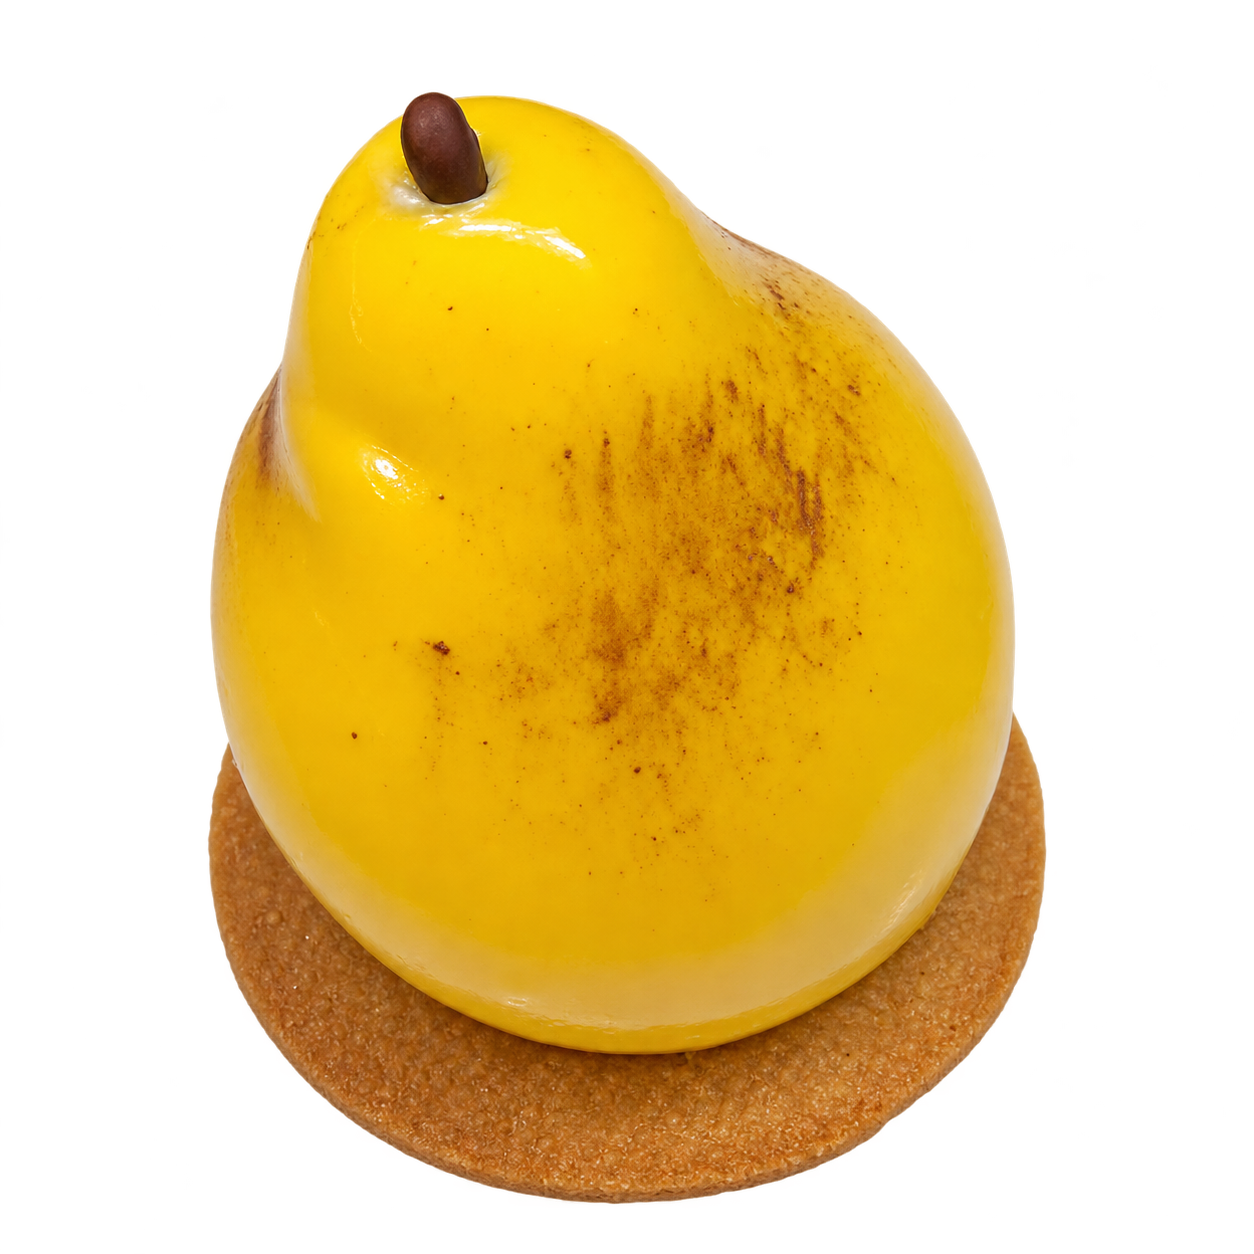
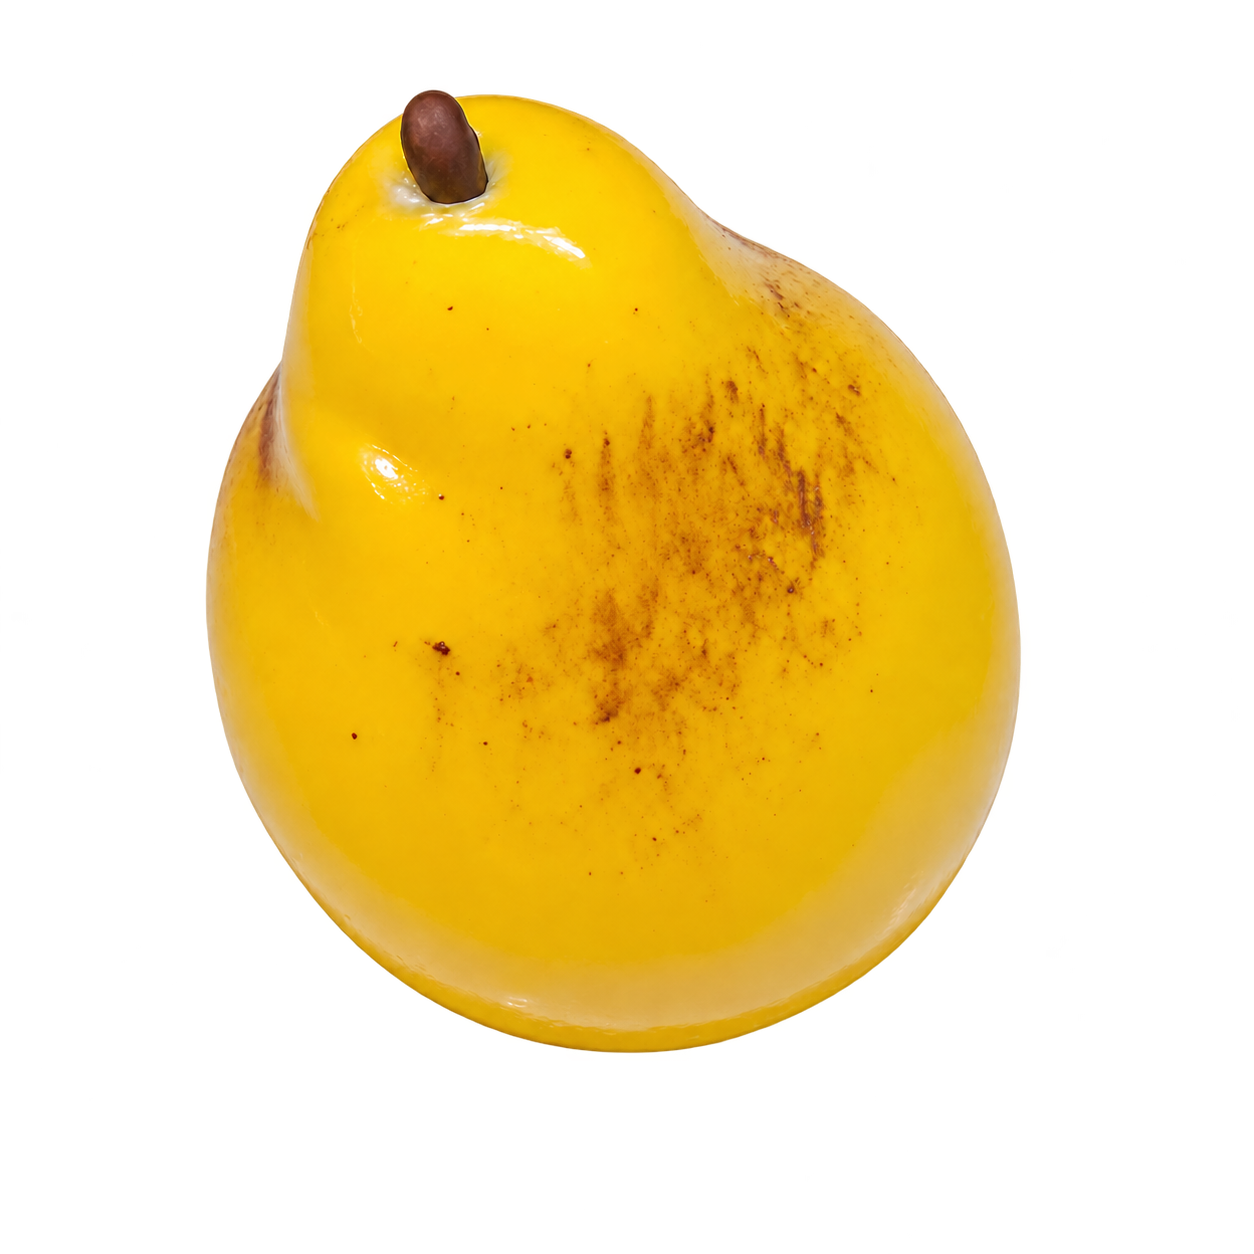
Section collection trompe-l'oeil

diff --git a/trompe-l-oeil.html b/trompe-l-oeil.html
@@ -53,13 +53,18 @@
     </div>
   </div>
 </section>
-<section class="sec sec-tint">
-  <div class="wrap">
-    <div class="sec-head"><h2>La collection</h2><p>Elle change avec les saisons et les envies du chef. Voici quelques créations passées en vitrine. Touchez une photo pour l'agrandir.</p></div>
-    <div class="gallery"><button class="shot" type="button" aria-label="Agrandir : Trompe-l&#x27;œil fraise"><img src="images/trompe-fraise.jpg" alt="Trompe-l&#x27;œil fraise" loading="lazy" decoding="async"></button><button class="shot" type="button" aria-label="Agrandir : Trompe-l&#x27;œil citron et mangue"><img src="images/trompe-citron-mangue.jpg" alt="Trompe-l&#x27;œil citron et mangue" loading="lazy" decoding="async"></button><button class="shot" type="button" aria-label="Agrandir : Trompe-l&#x27;œil pêche et noisette"><img src="images/trompe-peche-noisette.jpg" alt="Trompe-l&#x27;œil pêche et noisette" loading="lazy" decoding="async"></button><button class="shot" type="button" aria-label="Agrandir : Trompe-l&#x27;œil cacahuète, fève de cacao et framboise"><img src="images/trompe-cacahuete-framboise.jpg" alt="Trompe-l&#x27;œil cacahuète, fève de cacao et framboise" loading="lazy" decoding="async"></button><button class="shot" type="button" aria-label="Agrandir : Trompe-l&#x27;œil pomme"><img src="images/trompe-pomme.jpg" alt="Trompe-l&#x27;œil pomme" loading="lazy" decoding="async"></button><button class="shot" type="button" aria-label="Agrandir : Trompe-l&#x27;œil fruits brillants"><img src="images/trompe-fruits-brillants.jpg" alt="Trompe-l&#x27;œil fruits brillants" loading="lazy" decoding="async"></button><button class="shot" type="button" aria-label="Agrandir : Trompe-l&#x27;œil kiwi"><img src="images/trompe-kiwi.jpg" alt="Trompe-l&#x27;œil kiwi" loading="lazy" decoding="async"></button><button class="shot" type="button" aria-label="Agrandir : Trompe-l&#x27;œil prune et mangue"><img src="images/trompe-prunes.jpg" alt="Trompe-l&#x27;œil prune et mangue" loading="lazy" decoding="async"></button><button class="shot" type="button" aria-label="Agrandir : Trompe-l&#x27;œil orange"><img src="images/trompe-orange-mangue.jpg" alt="Trompe-l&#x27;œil orange" loading="lazy" decoding="async"></button><button class="shot" type="button" aria-label="Agrandir : Trompe-l&#x27;œil fraise sur assiette"><img src="images/trompe-fraise-assiette.jpg" alt="Trompe-l&#x27;œil fraise sur assiette" loading="lazy" decoding="async"></button><button class="shot" type="button" aria-label="Agrandir : Assortiment de trompe-l&#x27;œil"><img src="images/trompe-assortiment.jpg" alt="Assortiment de trompe-l&#x27;œil" loading="lazy" decoding="async"></button><button class="shot" type="button" aria-label="Agrandir : Vitrine de trompe-l&#x27;œil"><img src="images/vitrine-longue.jpg" alt="Vitrine de trompe-l&#x27;œil" loading="lazy" decoding="async"></button></div>
+<section class="band-sec" id="collection" aria-labelledby="band-title">
+  <div class="wrap band-head">
+    <p class="band-eyebrow">La collection</p>
+    <h2 id="band-title">Ça ressemble à un fruit.<br>C'est un gâteau.</h2>
+    <p class="band-lead">Neuf créations façonnées à la main, qui trompent l'œil avant de régaler le palais.</p>
   </div>
+  <div class="band">
+    <ul class="band-track"><li><img src="images/collection/citron.webp" alt="Trompe-l&#x27;œil citron" width="840" height="840" loading="lazy" decoding="async"><span>Citron</span></li><li><img src="images/collection/poire-verte.webp" alt="Trompe-l&#x27;œil poire" width="840" height="840" loading="lazy" decoding="async"><span>Poire</span></li><li><img src="images/collection/noix.webp" alt="Trompe-l&#x27;œil noix" width="840" height="840" loading="lazy" decoding="async"><span>Noix</span></li><li><img src="images/collection/fruit-rouge.webp" alt="Trompe-l&#x27;œil fruit rouge" width="840" height="840" loading="lazy" decoding="async"><span>Fruit rouge</span></li><li><img src="images/collection/peche.webp" alt="Trompe-l&#x27;œil pêche" width="840" height="840" loading="lazy" decoding="async"><span>Pêche</span></li><li><img src="images/collection/cacahuete.webp" alt="Trompe-l&#x27;œil cacahuète" width="840" height="840" loading="lazy" decoding="async"><span>Cacahuète</span></li><li><img src="images/collection/vanille.webp" alt="Trompe-l&#x27;œil vanille" width="840" height="840" loading="lazy" decoding="async"><span>Vanille</span></li><li><img src="images/collection/abricot.webp" alt="Trompe-l&#x27;œil abricot" width="840" height="840" loading="lazy" decoding="async"><span>Abricot</span></li><li><img src="images/collection/fraise.webp" alt="Trompe-l&#x27;œil fraise" width="840" height="840" loading="lazy" decoding="async"><span>Fraise</span></li><li aria-hidden="true"><img src="images/collection/citron.webp" alt="" width="840" height="840" loading="lazy" decoding="async"><span>Citron</span></li><li aria-hidden="true"><img src="images/collection/poire-verte.webp" alt="" width="840" height="840" loading="lazy" decoding="async"><span>Poire</span></li><li aria-hidden="true"><img src="images/collection/noix.webp" alt="" width="840" height="840" loading="lazy" decoding="async"><span>Noix</span></li><li aria-hidden="true"><img src="images/collection/fruit-rouge.webp" alt="" width="840" height="840" loading="lazy" decoding="async"><span>Fruit rouge</span></li><li aria-hidden="true"><img src="images/collection/peche.webp" alt="" width="840" height="840" loading="lazy" decoding="async"><span>Pêche</span></li><li aria-hidden="true"><img src="images/collection/cacahuete.webp" alt="" width="840" height="840" loading="lazy" decoding="async"><span>Cacahuète</span></li><li aria-hidden="true"><img src="images/collection/vanille.webp" alt="" width="840" height="840" loading="lazy" decoding="async"><span>Vanille</span></li><li aria-hidden="true"><img src="images/collection/abricot.webp" alt="" width="840" height="840" loading="lazy" decoding="async"><span>Abricot</span></li><li aria-hidden="true"><img src="images/collection/fraise.webp" alt="" width="840" height="840" loading="lazy" decoding="async"><span>Fraise</span></li></ul>
+  </div>
+  <div class="wrap band-foot"><a class="band-more" href="#profiter">Découvrir en boutique <span aria-hidden="true">→</span></a></div>
 </section>
-<section class="sec">
+<section class="sec" id="profiter">
   <div class="wrap">
     <div class="sec-head"><h2>Comment en profiter</h2></div>
     <div class="cols3">
@@ -67,6 +72,12 @@
       <div><h3>En coffret à offrir</h3><p>Un assortiment de plusieurs fruits, à commander à l'avance. Idéal pour un dîner, un remerciement ou un cadeau qui fait parler.</p></div>
       <div><h3>En format XL</h3><p>Le trompe-l'œil à partager, en pièce centrale d'un anniversaire ou d'une réception. Sur commande et sur devis.</p></div>
     </div>
+  </div>
+</section>
+<section class="sec sec-tint">
+  <div class="wrap">
+    <div class="sec-head"><h2>En vitrine</h2><p>La sélection change avec les saisons et les envies du chef. Voici quelques créations passées en vitrine. Touchez une photo pour l'agrandir.</p></div>
+    <div class="gallery"><button class="shot" type="button" aria-label="Agrandir : Trompe-l&#x27;œil fraise"><img src="images/trompe-fraise.jpg" alt="Trompe-l&#x27;œil fraise" loading="lazy" decoding="async"></button><button class="shot" type="button" aria-label="Agrandir : Trompe-l&#x27;œil citron et mangue"><img src="images/trompe-citron-mangue.jpg" alt="Trompe-l&#x27;œil citron et mangue" loading="lazy" decoding="async"></button><button class="shot" type="button" aria-label="Agrandir : Trompe-l&#x27;œil pêche et noisette"><img src="images/trompe-peche-noisette.jpg" alt="Trompe-l&#x27;œil pêche et noisette" loading="lazy" decoding="async"></button><button class="shot" type="button" aria-label="Agrandir : Trompe-l&#x27;œil cacahuète, fève de cacao et framboise"><img src="images/trompe-cacahuete-framboise.jpg" alt="Trompe-l&#x27;œil cacahuète, fève de cacao et framboise" loading="lazy" decoding="async"></button><button class="shot" type="button" aria-label="Agrandir : Trompe-l&#x27;œil pomme"><img src="images/trompe-pomme.jpg" alt="Trompe-l&#x27;œil pomme" loading="lazy" decoding="async"></button><button class="shot" type="button" aria-label="Agrandir : Trompe-l&#x27;œil fruits brillants"><img src="images/trompe-fruits-brillants.jpg" alt="Trompe-l&#x27;œil fruits brillants" loading="lazy" decoding="async"></button><button class="shot" type="button" aria-label="Agrandir : Trompe-l&#x27;œil kiwi"><img src="images/trompe-kiwi.jpg" alt="Trompe-l&#x27;œil kiwi" loading="lazy" decoding="async"></button><button class="shot" type="button" aria-label="Agrandir : Trompe-l&#x27;œil prune et mangue"><img src="images/trompe-prunes.jpg" alt="Trompe-l&#x27;œil prune et mangue" loading="lazy" decoding="async"></button><button class="shot" type="button" aria-label="Agrandir : Trompe-l&#x27;œil orange"><img src="images/trompe-orange-mangue.jpg" alt="Trompe-l&#x27;œil orange" loading="lazy" decoding="async"></button><button class="shot" type="button" aria-label="Agrandir : Trompe-l&#x27;œil fraise sur assiette"><img src="images/trompe-fraise-assiette.jpg" alt="Trompe-l&#x27;œil fraise sur assiette" loading="lazy" decoding="async"></button><button class="shot" type="button" aria-label="Agrandir : Assortiment de trompe-l&#x27;œil"><img src="images/trompe-assortiment.jpg" alt="Assortiment de trompe-l&#x27;œil" loading="lazy" decoding="async"></button><button class="shot" type="button" aria-label="Agrandir : Vitrine de trompe-l&#x27;œil"><img src="images/vitrine-longue.jpg" alt="Vitrine de trompe-l&#x27;œil" loading="lazy" decoding="async"></button></div>
   </div>
 </section>
 <section class="cta">

diff --git a/assets/style.css b/assets/style.css
@@ -423,3 +423,27 @@ blockquote{margin:2.2rem 0;padding:0 0 0 1.4rem;border-left:2px solid var(--gold
   .reel-head{grid-template-columns:1fr;gap:.7rem}
   .reel-track .shot{width:46vw}
 }
+
+/* Collection trompe-l'œil : bandeau défilant infini */
+#profiter{scroll-margin-top:70px}
+.band-sec{background:var(--sand);padding-block:clamp(3.5rem,8vw,6.5rem);overflow:hidden;text-align:center}
+.band-eyebrow{font-size:.78rem;font-weight:500;letter-spacing:.34em;text-transform:uppercase;color:#8A6B17;margin:0 auto 1.4rem;padding-left:.34em}
+.band-sec h2{font-size:clamp(2rem,4.6vw,3.6rem);margin-bottom:.45em;text-wrap:balance}
+.band-lead{color:#6B564A;font-size:1.1rem;max-width:46ch;margin:0 auto}
+.band{--h:clamp(96px,13vw,168px);margin-top:clamp(2.2rem,5vw,3.6rem);background:var(--cream);border-block:1px solid rgba(212,175,55,.6);padding-block:clamp(1.3rem,2.6vw,2.2rem);overflow:hidden}
+.band-track{list-style:none;margin:0;padding:0;display:flex;width:max-content;animation:bandRun 75s linear infinite;will-change:transform}
+.band-track li{display:flex;align-items:center;flex:none;gap:clamp(1.4rem,3vw,2.8rem);padding-right:clamp(1.4rem,3vw,2.8rem)}
+.band-track img{height:var(--h);width:var(--h);object-fit:contain;filter:drop-shadow(0 12px 14px rgba(43,24,16,.16));user-select:none;-webkit-user-drag:none}
+.band-track li:nth-child(odd) img{transform:rotate(-5deg)}
+.band-track li:nth-child(even) img{transform:rotate(4deg)}
+.band-track span{font-family:var(--display);font-style:italic;font-weight:400;font-size:clamp(1.9rem,4.4vw,3.4rem);line-height:1;white-space:nowrap;color:#B8922A}
+@keyframes bandRun{to{transform:translateX(-50%)}}
+.band-foot{margin-top:clamp(1.8rem,4vw,2.6rem)}
+.band-more{display:inline-block;color:var(--terra-deep);font-weight:500;text-decoration:underline;text-decoration-color:var(--gold);text-decoration-thickness:2px;text-underline-offset:6px}
+.band-more span{display:inline-block;transition:transform .25s}
+.band-more:hover span{transform:translateX(5px)}
+@media (prefers-reduced-motion:reduce){
+  .band{overflow-x:auto}
+  .band-track{animation:none}
+  .band-track li[aria-hidden]{display:none}
+}

diff --git a/assets/site.js b/assets/site.js
@@ -178,3 +178,23 @@ if (reelRows.length) {
     slide();
   }
 }
+
+// Trompe-l'œil : le bandeau défilant ralentit en douceur au survol
+const bandEl = document.querySelector('.band');
+if (bandEl) {
+  const run = bandEl.querySelector('.band-track').getAnimations?.()[0];
+  if (run) {
+    let rate = 1;
+    let goal = 1;
+    let raf = 0;
+    const tick = () => {
+      rate += (goal - rate) * 0.08;
+      if (Math.abs(goal - rate) < 0.01) rate = goal;
+      run.playbackRate = rate;
+      raf = rate === goal ? 0 : requestAnimationFrame(tick);
+    };
+    const aim = (v) => { goal = v; if (!raf) raf = requestAnimationFrame(tick); };
+    bandEl.addEventListener('pointerenter', (e) => { if (e.pointerType === 'mouse') aim(0.25); });
+    bandEl.addEventListener('pointerleave', () => aim(1));
+  }
+}

diff --git a/build.py b/build.py
@@ -301,6 +301,35 @@ pages["index.html"] = layout(
 )
 
 # ------------------------------------------------------------- TROMPE-L'OEIL
+# Le bandeau défilant : fichier (images/collection/<fichier>.webp) et mot affiché en or.
+COLLECTION = [
+    ("citron", "Citron"), ("poire-verte", "Poire"), ("noix", "Noix"),
+    ("fruit-rouge", "Fruit rouge"), ("peche", "Pêche"), ("cacahuete", "Cacahuète"),
+    ("vanille", "Vanille"), ("abricot", "Abricot"), ("fraise", "Fraise"),
+]
+
+
+def collection(root):
+    def serie(hidden):
+        h = ' aria-hidden="true"' if hidden else ""
+        out = ""
+        for slug, mot in COLLECTION:
+            alt = "" if hidden else f"Trompe-l'œil {mot.lower()}"
+            out += f'<li{h}><img src="{root}images/collection/{slug}.webp" alt="{e(alt)}" width="840" height="840" loading="lazy" decoding="async"><span>{e(mot)}</span></li>'
+        return out
+    return f"""<section class="band-sec" id="collection" aria-labelledby="band-title">
+  <div class="wrap band-head">
+    <p class="band-eyebrow">La collection</p>
+    <h2 id="band-title">Ça ressemble à un fruit.<br>C'est un gâteau.</h2>
+    <p class="band-lead">Neuf créations façonnées à la main, qui trompent l'œil avant de régaler le palais.</p>
+  </div>
+  <div class="band">
+    <ul class="band-track">{serie(False)}{serie(True)}</ul>
+  </div>
+  <div class="wrap band-foot"><a class="band-more" href="#profiter">Découvrir en boutique <span aria-hidden="true">→</span></a></div>
+</section>"""
+
+
 pages["trompe-l-oeil.html"] = layout(
     "trompe-l-oeil.html",
     "Pâtisserie trompe-l'œil à Aix-en-Provence et Mimet | L'Arbre à Pain",
@@ -320,18 +349,8 @@ pages["trompe-l-oeil.html"] = layout(
     </div>
   </div>
 </section>
-<section class="sec sec-tint">
-  <div class="wrap">
-    <div class="sec-head"><h2>La collection</h2><p>Elle change avec les saisons et les envies du chef. Voici quelques créations passées en vitrine. Touchez une photo pour l'agrandir.</p></div>
-    {gallery(r, [
-      ("trompe-fraise", "Trompe-l'œil fraise"), ("trompe-citron-mangue", "Trompe-l'œil citron et mangue"), ("trompe-peche-noisette", "Trompe-l'œil pêche et noisette"),
-      ("trompe-cacahuete-framboise", "Trompe-l'œil cacahuète, fève de cacao et framboise"), ("trompe-pomme", "Trompe-l'œil pomme"), ("trompe-fruits-brillants", "Trompe-l'œil fruits brillants"),
-      ("trompe-kiwi", "Trompe-l'œil kiwi"), ("trompe-prunes", "Trompe-l'œil prune et mangue"), ("trompe-orange-mangue", "Trompe-l'œil orange"),
-      ("trompe-fraise-assiette", "Trompe-l'œil fraise sur assiette"), ("trompe-assortiment", "Assortiment de trompe-l'œil"), ("vitrine-longue", "Vitrine de trompe-l'œil"),
-    ])}
-  </div>
-</section>
-<section class="sec">
+{collection(r)}
+<section class="sec" id="profiter">
   <div class="wrap">
     <div class="sec-head"><h2>Comment en profiter</h2></div>
     <div class="cols3">
@@ -339,6 +358,17 @@ pages["trompe-l-oeil.html"] = layout(
       <div><h3>En coffret à offrir</h3><p>Un assortiment de plusieurs fruits, à commander à l'avance. Idéal pour un dîner, un remerciement ou un cadeau qui fait parler.</p></div>
       <div><h3>En format XL</h3><p>Le trompe-l'œil à partager, en pièce centrale d'un anniversaire ou d'une réception. Sur commande et sur devis.</p></div>
     </div>
+  </div>
+</section>
+<section class="sec sec-tint">
+  <div class="wrap">
+    <div class="sec-head"><h2>En vitrine</h2><p>La sélection change avec les saisons et les envies du chef. Voici quelques créations passées en vitrine. Touchez une photo pour l'agrandir.</p></div>
+    {gallery(r, [
+      ("trompe-fraise", "Trompe-l'œil fraise"), ("trompe-citron-mangue", "Trompe-l'œil citron et mangue"), ("trompe-peche-noisette", "Trompe-l'œil pêche et noisette"),
+      ("trompe-cacahuete-framboise", "Trompe-l'œil cacahuète, fève de cacao et framboise"), ("trompe-pomme", "Trompe-l'œil pomme"), ("trompe-fruits-brillants", "Trompe-l'œil fruits brillants"),
+      ("trompe-kiwi", "Trompe-l'œil kiwi"), ("trompe-prunes", "Trompe-l'œil prune et mangue"), ("trompe-orange-mangue", "Trompe-l'œil orange"),
+      ("trompe-fraise-assiette", "Trompe-l'œil fraise sur assiette"), ("trompe-assortiment", "Assortiment de trompe-l'œil"), ("vitrine-longue", "Vitrine de trompe-l'œil"),
+    ])}
   </div>
 </section>
 {cta(r, "Envie d'un coffret ou d'un trompe-l'œil XL ?", "Indiquez-nous la date et le nombre de personnes, nous vous disons ce qui est possible.")}""",
